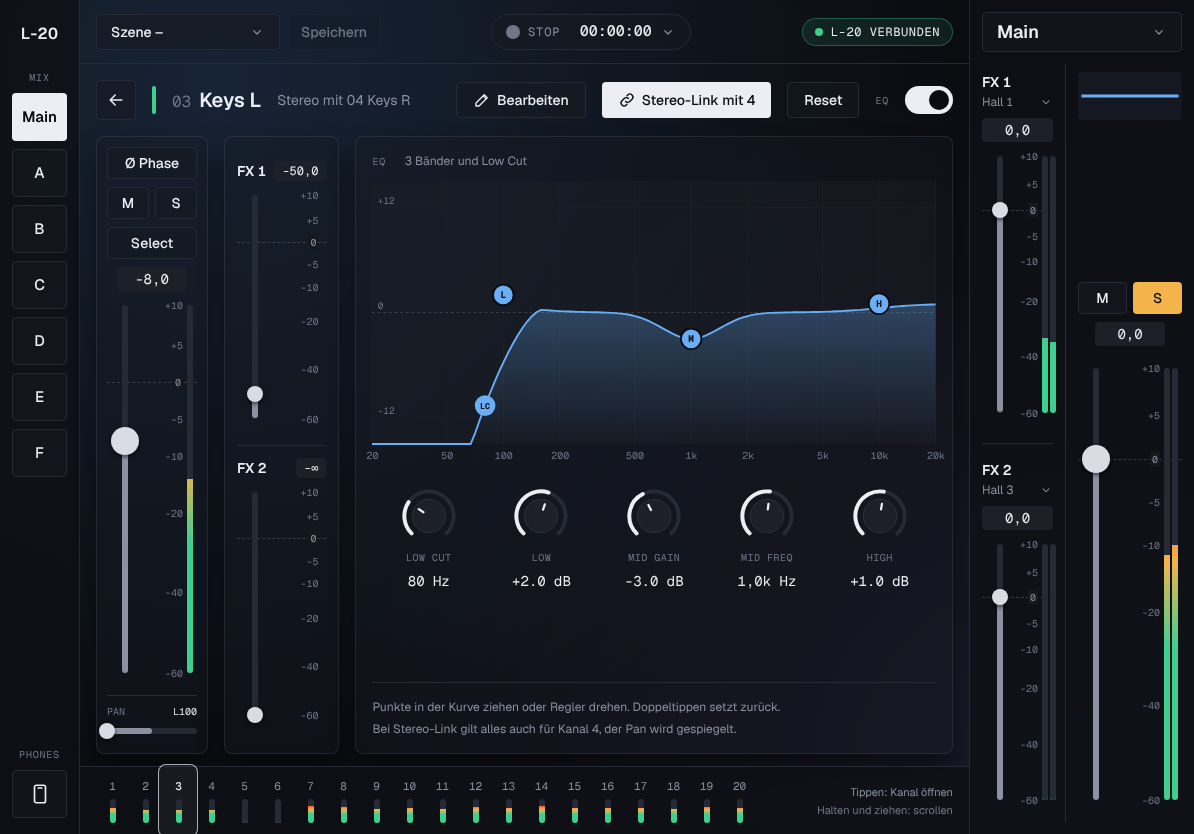
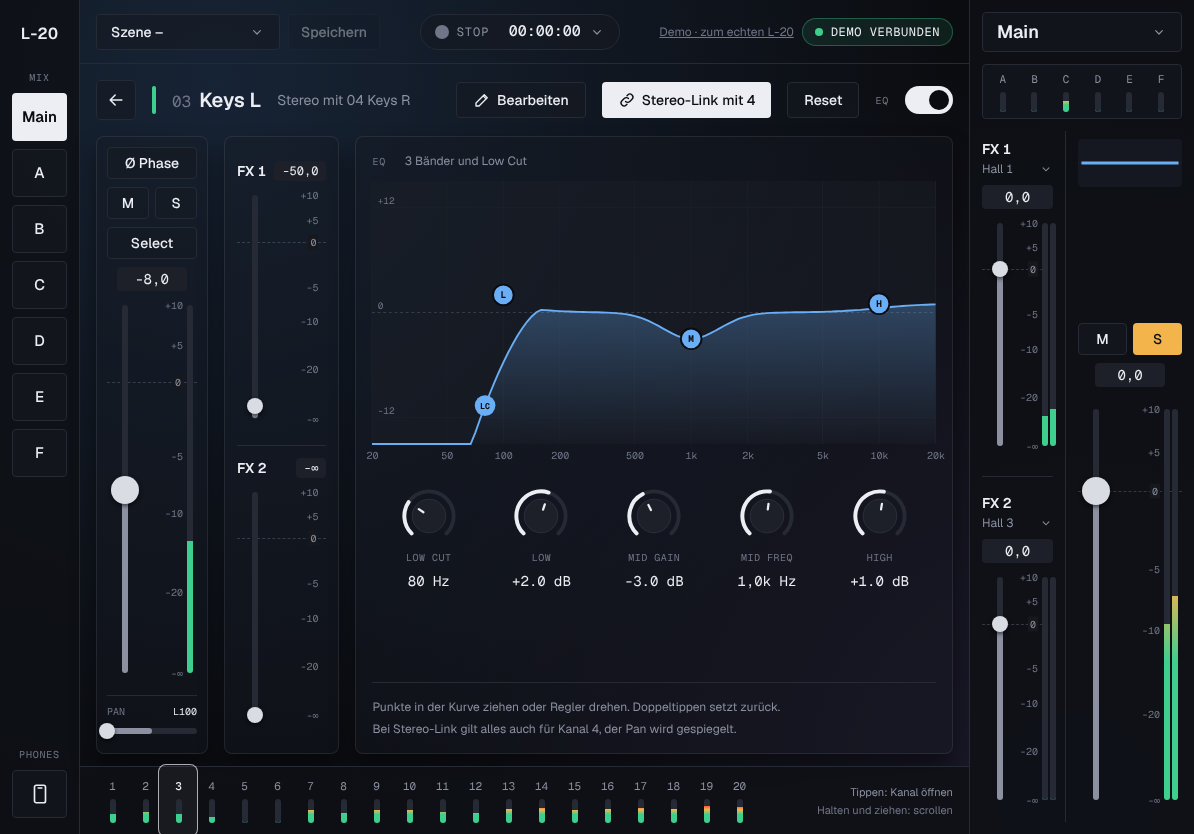
UI aus Rons Testliste: dB-Skala wie am L-20, Mix-A–F-Übersicht, Doppeltipp-Reset
- Fader-Skala: -5/-10/-20/-∞ an den Positionen von -10/-20/-40/-60 (Taper angepasst)
- Unter dem Ansichts-Dropdown (Main): Meter für Mix A–F, Tippen öffnet ein
  Overlay mit Linienfader + Meter je Mix, der Name öffnet den Mix
- Doppeltipp: Kanalfader 0 dB, Pan Mitte, GEQ-Band 0 dB, Master/Mix/FX/Sends -∞
- Popover von Recorder und Mixen deckend statt durchscheinend

Claude-Session: https://claude.ai/code/session_01KbLEJ1Gsh3xGpwrhXZZo4P

diff --git a/src/ui/screens/Shell.tsx b/src/ui/screens/Shell.tsx
@@ -1,10 +1,25 @@
 import { useRef, type ReactNode } from 'react'
-import { MONITOR_MIXES, type RecorderState, type TransportButton } from '@/lib/mixer'
-import { formatTime } from '@/lib/scale'
+import { useShallow } from 'zustand/react/shallow'
+import {
+  MONITOR_MIXES,
+  type MonitorMixId,
+  type RecorderState,
+  type TransportButton,
+} from '@/lib/mixer'
+import { dbToPos, formatDb, formatTime, posToDb } from '@/lib/scale'
 import { cn } from '@/lib/utils'
 import { useMixerStore } from '@/state/mixerStore'
-import { Btn, Icon, Label, Meter, StatusPill } from '../components/controls'
-import type { Screen, View } from '../mixView'
+import {
+  Btn,
+  HMeter,
+  Icon,
+  Label,
+  Meter,
+  Slider,
+  StatusPill,
+  ValueBox,
+} from '../components/controls'
+import { mixLevel, type Screen, type View } from '../mixView'
 
 export function Shell({
   screen,
@@ -70,9 +85,64 @@ export function Shell({
             ))}
           </select>
         </label>
+        {screen === 'main' && <MixOverview onOpen={onScreen} />}
         <div className="divide-line flex min-h-0 flex-1 divide-x">{aside}</div>
       </aside>
     </div>
+  )
+}
+
+/** Compact Mix A–F meters under the dropdown; tap opens line faders per mix, the name opens the mix. */
+function MixOverview({ onOpen }: { onOpen: (mix: MonitorMixId) => void }) {
+  const levels = useMixerStore(
+    useShallow((s) => MONITOR_MIXES.map((m) => mixLevel(s.mixer, s.meters, m))),
+  )
+  const monitors = useMixerStore((s) => s.mixer.monitors)
+  const dispatch = useMixerStore((s) => s.dispatch)
+  return (
+    <details className="relative mx-3 mb-3">
+      <summary
+        aria-label="Mixe A–F"
+        className="border-line grid cursor-pointer list-none grid-cols-6 rounded border bg-[rgb(22_25_32/0.55)] px-1 py-1.5"
+      >
+        {MONITOR_MIXES.map((m, i) => (
+          <div key={m} className="flex flex-col items-center gap-1">
+            <span
+              className={cn('font-mono text-[11px]', monitors[m].mute ? 'text-bad' : 'text-fg2')}
+            >
+              {m}
+            </span>
+            <div className="flex h-5">
+              <Meter level={levels[i]} />
+            </div>
+          </div>
+        ))}
+      </summary>
+      <div className="bg-surf absolute top-full right-0 z-20 mt-2 w-80 space-y-3 rounded-lg border border-white/12 p-3 shadow-[0_24px_64px_rgb(0_0_0/0.7)]">
+        {MONITOR_MIXES.map((m, i) => {
+          const db = monitors[m].fader
+          return (
+            <div key={m}>
+              <div className="flex items-center justify-between">
+                <button type="button" className="text-sm font-semibold" onClick={() => onOpen(m)}>
+                  Mix {m} <span className="text-fg2">›</span>
+                </button>
+                <ValueBox className="w-[68px]">{formatDb(db)}</ValueBox>
+              </div>
+              <Slider
+                pos={1 - dbToPos(db)}
+                onPos={(p) => dispatch({ type: 'bus', mix: m, patch: { fader: posToDb(1 - p) } })}
+                mark={1 - dbToPos(0)}
+                reset={0}
+                label={`Ausgang Mix ${m}`}
+                valueText={`${formatDb(db)} dB`}
+              />
+              <HMeter level={levels[i]} />
+            </div>
+          )
+        })}
+      </div>
+    </details>
   )
 }
 
@@ -154,7 +224,7 @@ function TopBar() {
           </span>
           <Icon name="caret" className="text-fg2 size-4" />
         </summary>
-        <div className="card bg-surf absolute top-11 left-1/2 z-20 grid w-56 -translate-x-1/2 grid-cols-2 gap-2 p-2">
+        <div className="bg-surf absolute top-11 left-1/2 z-20 grid w-56 -translate-x-1/2 grid-cols-2 gap-2 rounded-lg border border-white/12 p-2 shadow-[0_24px_64px_rgb(0_0_0/0.7)]">
           <Btn
             kind={['standby', 'recording', 'recPaused'].includes(recorder.state) ? 'rec' : 'plain'}
             className={cn('h-11', recorder.state === 'recPaused' && 'animate-pulse')}

diff --git a/src/ui/components/controls.tsx b/src/ui/components/controls.tsx
@@ -1,4 +1,5 @@
 import { useRef, type ReactNode } from 'react'
+import { FADER_MIN } from '@/lib/mixer'
 import { cn } from '@/lib/utils'
 import { dbToPos, formatDb, posToDb, SCALE_MARKS } from '@/lib/scale'
 
@@ -76,12 +77,15 @@ export function Fader({
   levels,
   label,
   handle = 'lg',
+  reset = FADER_MIN,
 }: {
   db: number
   onChange: (db: number) => void
   levels: (number | undefined)[]
   label: string
   handle?: 'sm' | 'lg'
+  /** dB a double tap jumps to: -∞ for buses and sends, 0 dB for channel faders. */
+  reset?: number
 }) {
   return (
     <div className="relative flex min-h-0 flex-1 justify-between px-1 py-3.5">
@@ -94,6 +98,7 @@ export function Fader({
         handle={handle}
         pos={dbToPos(db)}
         onPos={(p) => onChange(posToDb(p))}
+        reset={dbToPos(reset)}
         label={label}
         valueText={`${formatDb(db)} dB`}
       />
@@ -107,7 +112,7 @@ export function Fader({
             )}
             style={{ top: `${dbToPos(m) * 100}%` }}
           >
-            {m > 0 ? `+${m}` : m}
+            {m > 0 ? `+${m}` : m <= FADER_MIN ? '-∞' : m}
           </span>
         ))}
       </div>
@@ -134,6 +139,7 @@ export function Slider({
   handle = 'sm',
   label,
   valueText,
+  reset,
 }: {
   pos: number
   onPos: (pos: number) => void
@@ -143,6 +149,8 @@ export function Slider({
   handle?: 'sm' | 'lg'
   label: string
   valueText: string
+  /** Position a double tap jumps to; none means no reset. */
+  reset?: number
 }) {
   const drag = useDrag(pos, onPos, axis)
   const y = axis === 'y'
@@ -150,6 +158,7 @@ export function Slider({
   return (
     <div
       {...drag}
+      onDoubleClick={reset === undefined ? undefined : () => onPos(reset)}
       role="slider"
       aria-label={label}
       aria-orientation={y ? 'vertical' : 'horizontal'}

diff --git a/src/ui/screens/ChannelDetail.tsx b/src/ui/screens/ChannelDetail.tsx
@@ -158,6 +158,7 @@ export function ChannelDetail({ ch, onBack }: { ch: number; onBack: () => void }
             onChange={(db) => dispatch({ type: 'channel', ch, patch: { fader: db } })}
             levels={fixed ? [meter, meterR] : [meter]}
             label={`Fader ${c.name}`}
+            reset={0}
           />
           {!fixed && (
             <div className="border-line mt-2 border-t pt-2">
@@ -172,6 +173,7 @@ export function ChannelDetail({ ch, onBack }: { ch: number; onBack: () => void }
                 }
                 origin={0.5}
                 label={`Pan ${c.name}`}
+                reset={0.5}
                 valueText={formatPan(c.pan)}
               />
             </div>

diff --git a/src/lib/scale.ts b/src/lib/scale.ts
@@ -1,15 +1,14 @@
 import { FADER_MIN, GEQ_BANDS, type Eq } from './mixer'
 
-/** Fader taper from Ron's channel strip design: dB -> position 0 (top, +10) … 1 (bottom, -60). */
+/** Fader taper, labels as on the L-20 (Ron, 2026-11-02): dB -> position 0 (top, +10) … 1 (bottom, -∞ = FADER_MIN). */
 const TAPER: [number, number][] = [
   [10, 0],
   [5, 0.11],
   [0, 0.21],
-  [-5, 0.31],
-  [-10, 0.41],
-  [-20, 0.565],
-  [-40, 0.78],
-  [-60, 1],
+  [-5, 0.41],
+  [-10, 0.565],
+  [-20, 0.78],
+  [FADER_MIN, 1],
 ]
 export const SCALE_MARKS = TAPER.map(([db]) => db)
 

diff --git a/src/ui/screens/Console.tsx b/src/ui/screens/Console.tsx
@@ -162,6 +162,7 @@ function Strip({
         onChange={setLevel}
         levels={fixed ? [meter, meterR] : [meter]}
         label={`Fader ${c.name}`}
+        reset={0}
       />
       {!fixed && (
         <>
@@ -180,6 +181,7 @@ function Strip({
                 }
                 origin={0.5}
                 label={`Pan ${c.name}`}
+                reset={0.5}
                 valueText={formatPan(c.pan)}
               />
             )}

diff --git a/src/ui/screens/MasterDetail.tsx b/src/ui/screens/MasterDetail.tsx
@@ -45,6 +45,7 @@ export function MasterDetail({ onBack }: { onBack: () => void }) {
                   pos={toPos(geq[band])}
                   onPos={(p) => dispatch({ type: 'geq', band, gain: toDb(p) })}
                   label={`${hz(f)} Hz`}
+                  reset={0.5}
                   valueText={`${geq[band]} dB`}
                 />
               </div>
